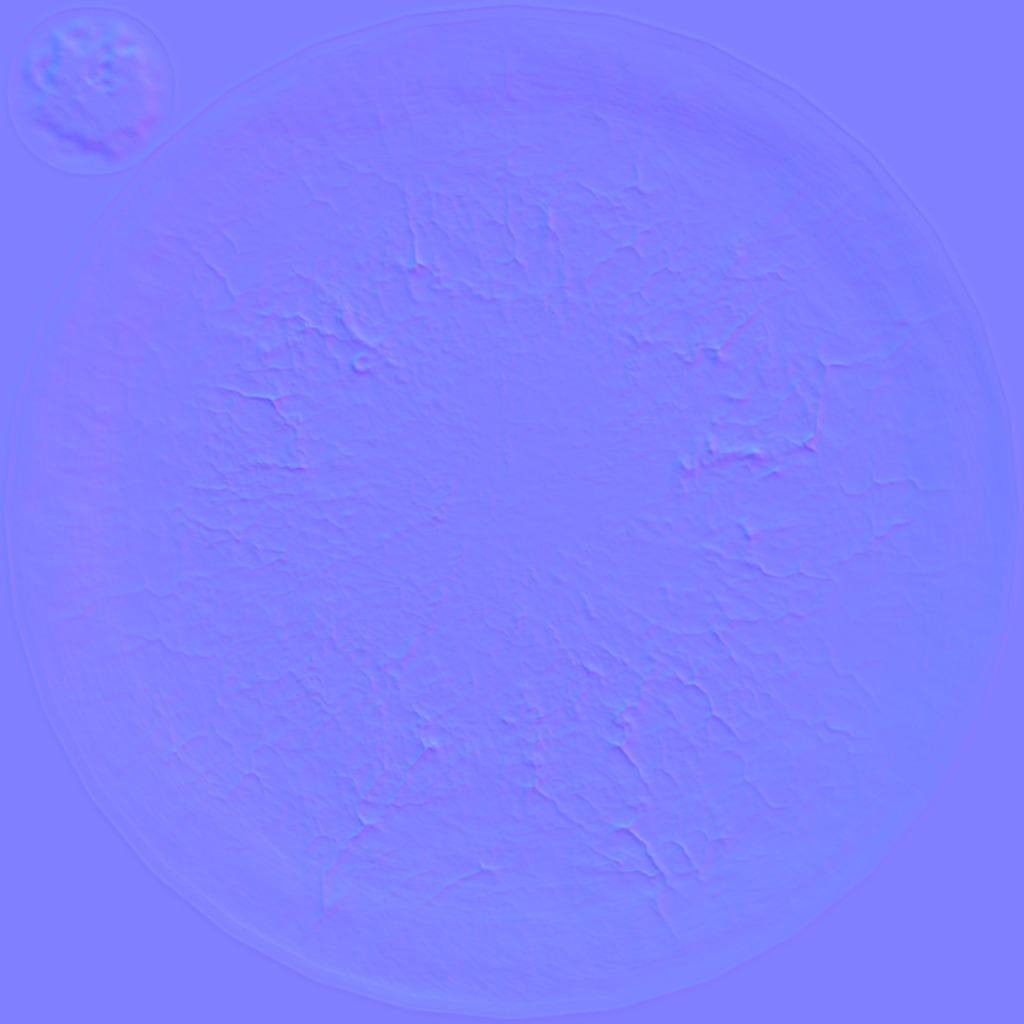
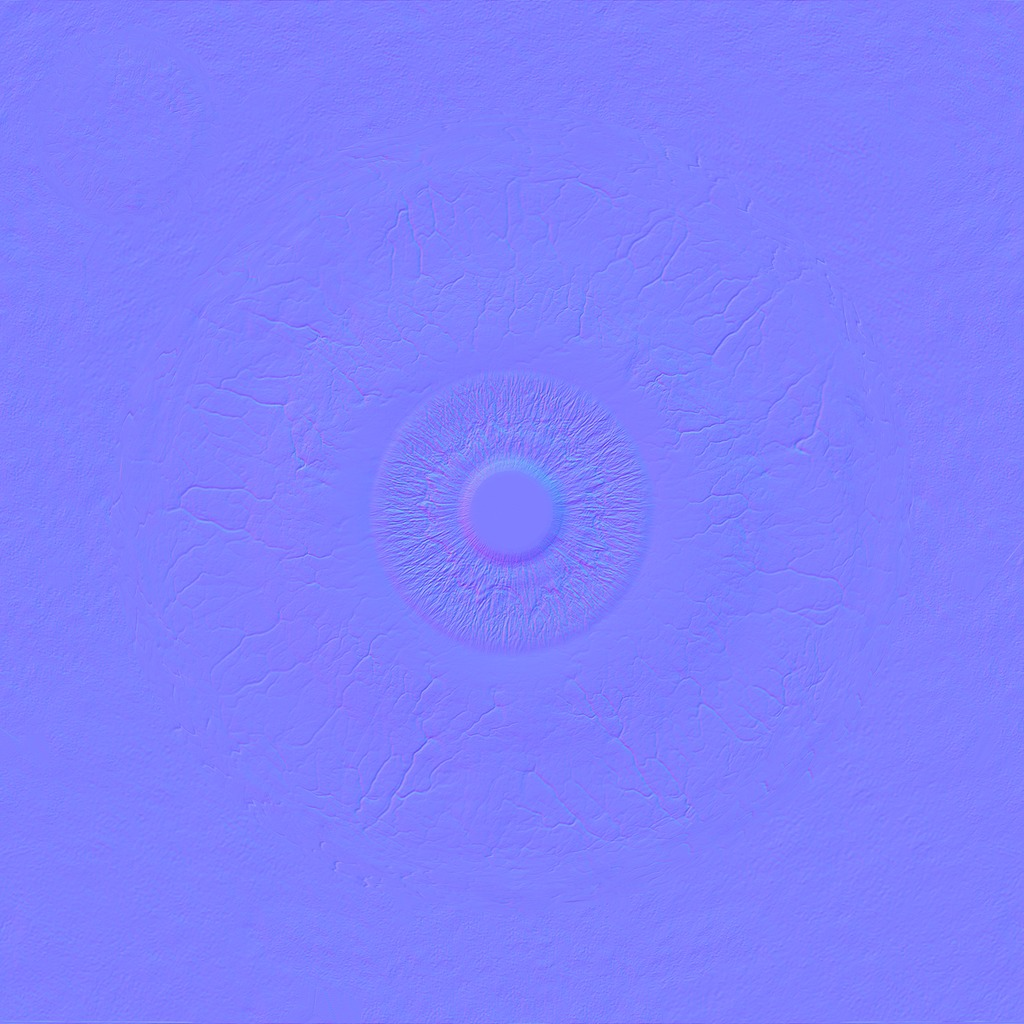
OLD FACE: 메타휴먼 DCC 눈 텍스처(실제 홍채 색 / 노멀) 와 SRMF 스펙큘러 / 러프니스 맵 적용
Claude-Session: https://claude.ai/code/session_01E28c5Hc7xNied4Vzt9bqYU

diff --git a/examples/oldface/index.html b/examples/oldface/index.html
@@ -427,7 +427,7 @@
 		{ keyword: "saliva", shading: "fluid", albedo: null, normal: null, roughness: null, opacity: null, baseColorFactor: [0.4, 1, 1], useDetail: false, roughnessFactor: 1.0, subsurfaceFactor: 0.0, extra: {} },
 		{ keyword: "eyeball", shading: "eye", albedo: "eye_sclera.jpg", normal: "eye_sclera_normal.jpg", roughness: null, opacity: null, baseColorFactor: null, useDetail: false, roughnessFactor: 1.0, subsurfaceFactor: 0.0, extra: { layerColor: "eye_iris.png", layerNormal: "eye_iris_normal.png" } },
 		{ keyword: "eyelashes", shading: "skin", albedo: "eyelash.png", normal: null, roughness: null, opacity: "eyelash.png", baseColorFactor: null, useDetail: false, roughnessFactor: 1.0, subsurfaceFactor: 0.0, extra: {} },
-		{ keyword: "head", shading: "skin", albedo: "head_albedo.jpg", normal: "head_normal.jpg", roughness: "head_roughness.jpg", opacity: null, baseColorFactor: null, useDetail: true, roughnessFactor: 0.85, subsurfaceFactor: 1.0, extra: { micro: "skin_micro.png", maskAtlas: "wrinkle_masks.png", layerNormal: "wrinkle_normal.jpg", layerColor: "wrinkle_color.jpg" } },
+		{ keyword: "head", shading: "skin", albedo: "head_albedo.jpg", normal: "head_normal.jpg", roughness: "head_roughness.jpg", specular: "head_specular.jpg", opacity: null, baseColorFactor: null, useDetail: true, roughnessFactor: 1.0, subsurfaceFactor: 1.0, extra: { micro: "skin_micro.png", maskAtlas: "wrinkle_masks.png", layerNormal: "wrinkle_normal.jpg", layerColor: "wrinkle_color.jpg" } },
 		{ keyword: "teeth", shading: "skin", albedo: "teeth_albedo.jpg", normal: "teeth_normal.jpg", roughness: null, opacity: null, baseColorFactor: null, useDetail: false, roughnessFactor: 0.4, subsurfaceFactor: 0.25, extra: {} },
 		{ keyword: "hair", shading: "hair", albedo: "hair.png", normal: null, roughness: null, opacity: null, baseColorFactor: null, useDetail: false, roughnessFactor: 1.0, subsurfaceFactor: 0.0, extra: { layerNormal: "hair_tangent.png" } },
 		{ keyword: "beard", shading: "hair", albedo: "beard.png", normal: null, roughness: null, opacity: null, baseColorFactor: null, useDetail: false, roughnessFactor: 1.0, subsurfaceFactor: 0.0, extra: { layerNormal: "beard_tangent.png" } },
@@ -858,6 +858,7 @@
 		description.baseColorImage = await loadAssetImage(definition.albedo);
 		description.normalImage = await loadAssetImage(definition.normal);
 		description.metallicRoughnessImage = await loadAssetImage(definition.roughness);
+		description.specularImage = await loadAssetImage(definition.specular);
 		description.opacityImage = await loadAssetImage(definition.opacity);
 		description.roughnessFactor = definition.roughnessFactor;
 		if (definition.baseColorFactor) {
@@ -1612,7 +1613,7 @@
 		skinRenderer.setNormalStrength(sliderStates.normalStrength);
 		skinRenderer.setWrinkleMaps(optionStates.wrinkle, sliderStates.wrinkleDepth, System.Math.min(1, sliderStates.wrinkleDepth * 0.9));
 		skinRenderer.setSpecularStrength(sliderStates.specular);
-		skinRenderer.setRoughnessRange(sliderStates.roughness, sliderStates.roughness);
+		skinRenderer.setRoughnessRange(sliderStates.roughness * 0.85, sliderStates.roughness * 1.1);
 		skinRenderer.setSheenStrength(sliderStates.sheen);
 		skinRenderer.setShadowSoftness(sliderStates.shadowSoftness);
 		skinRenderer.setLight(0, KEY_LIGHT_DIRECTION.x, KEY_LIGHT_DIRECTION.y, KEY_LIGHT_DIRECTION.z, 1.0, 0.92, 0.82, sliderStates.keyIntensity);

diff --git a/examples/oldface/tools/metahuman/compose_dcc_textures.py b/examples/oldface/tools/metahuman/compose_dcc_textures.py
@@ -1,0 +1,40 @@
+import sys
+import numpy as np
+from PIL import Image
+
+# 메타휴먼 DCC 패키지(Maps/)의 눈 / 피부 SRMF 텍스처를 샘플용으로 합성한다.
+# - Eyes_Color: 메타휴먼이 합성한 공막 + 홍채(캐릭터 실제 눈 색) → eye_sclera.jpg(전체) + eye_iris.png(중앙 홍채 원판 크롭)
+# - Eyes_Normal: 공막 / 홍채 노멀 → eye_sclera_normal.jpg + eye_iris_normal.png (UE DirectX Y- → G 반전)
+# - Head_SRMF: R 스펙큘러, G 러프니스 → head_specular.jpg(R), head_roughness.jpg(ORM: G 러프니스)
+# 사용: python compose_dcc_textures.py <DCC/Maps> <assets> [홍채 UV 반경 = 0.14]
+Image.MAX_IMAGE_PIXELS = None
+maps = sys.argv[1].rstrip("/\\") + "/"
+assets = sys.argv[2].rstrip("/\\") + "/"
+iris_radius = float(sys.argv[3]) if len(sys.argv) > 3 else 0.14
+
+def flip_green(image):
+    channels = image.split()
+    return Image.merge("RGB", (channels[0], channels[1].point(lambda value: 255 - value), channels[2]))
+
+def center_crop(image, radius_uv):
+    width, height = image.size
+    half = int(width * radius_uv)
+    return image.crop((width // 2 - half, height // 2 - half, width // 2 + half, height // 2 + half))
+
+eyes_color = Image.open(maps + "Eyes_Color.png").convert("RGB")
+eyes_color.resize((1024, 1024), Image.LANCZOS).save(assets + "eye_sclera.jpg", "JPEG", quality=92, optimize=True)
+iris = center_crop(eyes_color, iris_radius).resize((1024, 1024), Image.LANCZOS)
+iris.convert("RGBA").save(assets + "eye_iris.png", optimize=True)
+eyes_normal = flip_green(Image.open(maps + "Eyes_Normal.png").convert("RGB"))
+eyes_normal.resize((1024, 1024), Image.LANCZOS).save(assets + "eye_sclera_normal.jpg", "JPEG", quality=92, optimize=True)
+center_crop(eyes_normal, iris_radius).resize((512, 512), Image.LANCZOS).save(assets + "eye_iris_normal.png", optimize=True)
+print("eyes", eyes_color.size, "iris crop radius", iris_radius)
+
+srmf = np.asarray(Image.open(maps + "Head_SRMF.png").convert("RGBA")).astype(np.float32) / 255.0
+specular = srmf[..., 0]
+roughness = srmf[..., 1]
+Image.fromarray((specular * 255 + 0.5).astype(np.uint8), "L").convert("RGB").save(assets + "head_specular.jpg", "JPEG", quality=90, optimize=True)
+orm = np.stack([np.ones_like(roughness), roughness, np.zeros_like(roughness)], axis=-1)
+Image.fromarray((orm * 255 + 0.5).astype(np.uint8), "RGB").save(assets + "head_roughness.jpg", "JPEG", quality=90, optimize=True)
+print("srmf specular mean", specular.mean().round(3), "roughness mean", roughness.mean().round(3))
+print("COMPOSED")

diff --git a/examples/oldface/tools/metahuman/README.md b/examples/oldface/tools/metahuman/README.md
@@ -33,6 +33,7 @@
 14. LOD (슬라이더용)
    - `OLDFACE_LOD=1 OLDFACE_DUMP_DIR=.../Dump_oldman_lod1 UE -ExecutePythonScript=ue/ue_dump_rig.py` (LOD2 도 같은 방식) — DNA 의 lod1 / lod2 메시 덤프(LOD 메시는 블렌드셰이프 없이 조인트만), `riglogic_from_dump.py` → `build_metahuman_glb.py` 로 `character_lod1.glb` / `character_lod2.glb`. `character_lod0.glb` 는 카드 없이 `oldman_arkit.npz` 로 빌드
    - 머리카락: 카드 LOD0~4 를 `cards_raw.npz` 에 모두 추출한 뒤 `Grooms/parts_lod{N}.json` 으로 `python fit_hair_cards.py ... Head/hair_lod{N}.npz --cards-only` → `hair_lod{N}.glb`
+16. `UE -ExecutePythonScript=ue/ue_export_dcc.py` — DCC 패키지(DCC/OldMan/Maps: Head_Basecolor / Normal / SRMF / CM / WM, Eyes_Color / Normal, Teeth, Masks). 텍스처 소스 해상도를 4K / 8K 로 요청해도 결과는 2K 이고 8K 소스 상태에서는 텍스처 컴파일(4.6GB) 중 메모리 부족으로 죽으니 RES4K 이하로 요청한다. `python compose_dcc_textures.py <DCC/Maps> <assets> [홍채 반경]` 로 eye_sclera / eye_iris / 눈 노멀 / head_specular / head_roughness 를 만든다.
 15. 샘플 슬라이더는 HEAD_LOD_FILES / HAIR_LEVEL_DEFINITIONS / SHADOW_LEVEL_DEFINITIONS 로 애셋과 단계를 정의한다.
 
 참고

diff --git a/UPDATE.md b/UPDATE.md
@@ -5,6 +5,7 @@
   - 머리 LOD 0 / 1 / 2 (24k / 12k / 6k 정점) 와 머리카락 카드 LOD 0~4 를 별도 glb 로 나눠 슬라이더로 필요할 때 로드, 텍스처 크기는 TEXTURE_MIN_LOD 로 실효 해상도 조절, 섀도우 맵은 해상도 변경 시 재생성
   - HumanSkinRenderer: 버텍스 셰이더 주입(기반 렌더러 옵션) 으로 머리카락 흔들림(가닥 끝 가중 사인 합성), 섀도우 표본 수 유니폼(포아송 24), 프린지 블렌드 토글
   - 머티리얼 그래프 2배 확대 + 휠 세로 스크롤, 기본 표정 SERIOUS(미간 / 입술 압박) 추가, 눈물선 / 침 유체 커버리지 상수화(눈꺼풀 위 흰 줄 제거), 실사 얼굴 파비콘(favicon.png)
+  - 메타휴먼 DCC 패키지의 Eyes_Color / Eyes_Normal(캐릭터 실제 청회색 홍채) 과 Head_SRMF(스펙큘러 / 러프니스 맵)를 눈 · 피부 머티리얼에 적용 (compose_dcc_textures.py)
 
 # 0.5.6-experimental (2026-09-07)
 - OLD FACE 렌더링을 언리얼 메타휴먼 룩에 맞춰 상향 — HumanSkinRenderer 를 셰이딩 모드(피부 / 눈 / 머리카락 / 차폐 / 유체) 통합 셰이더로 재작성
